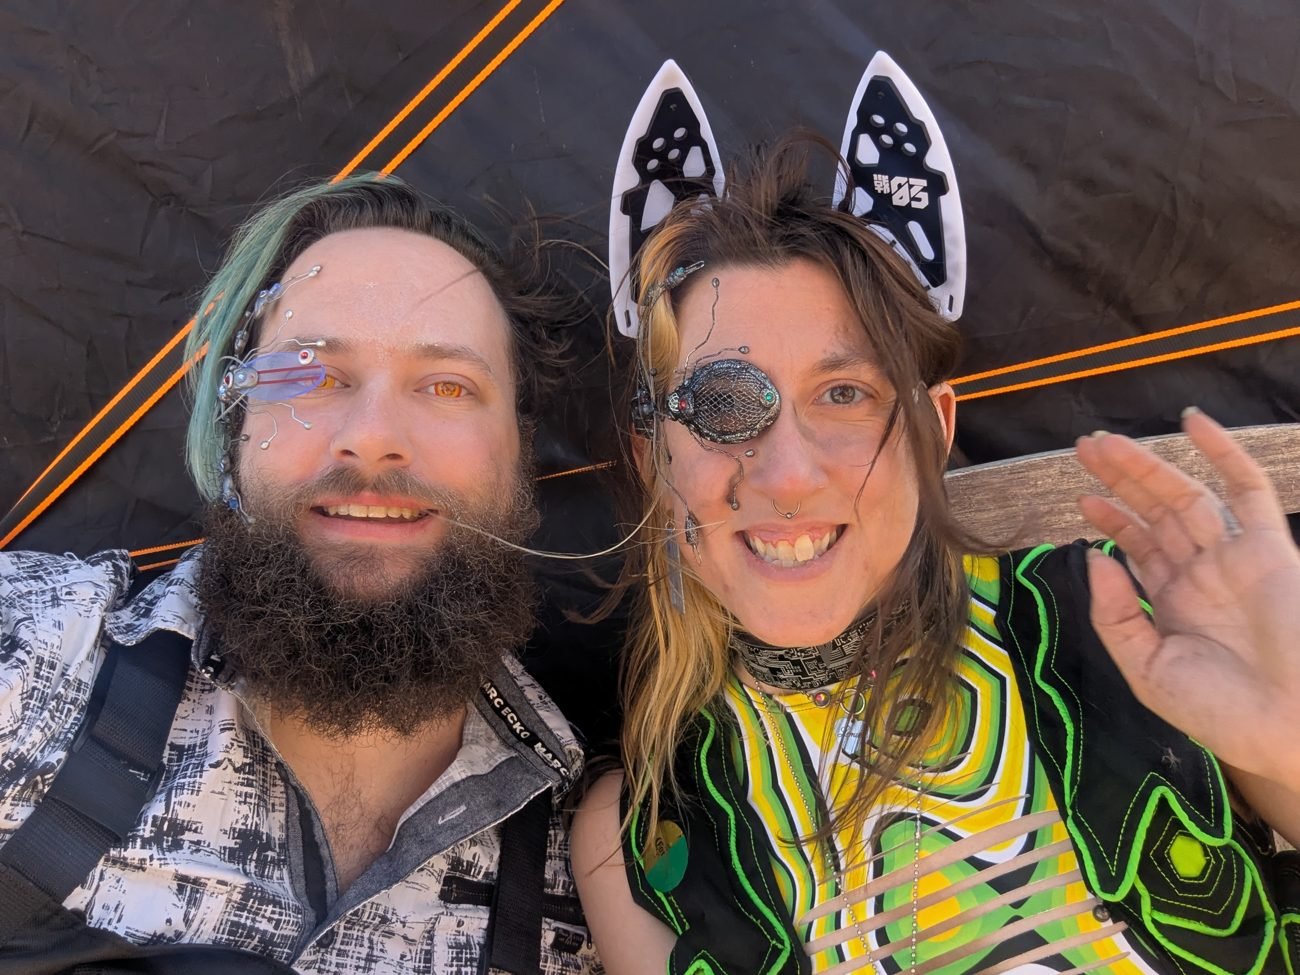
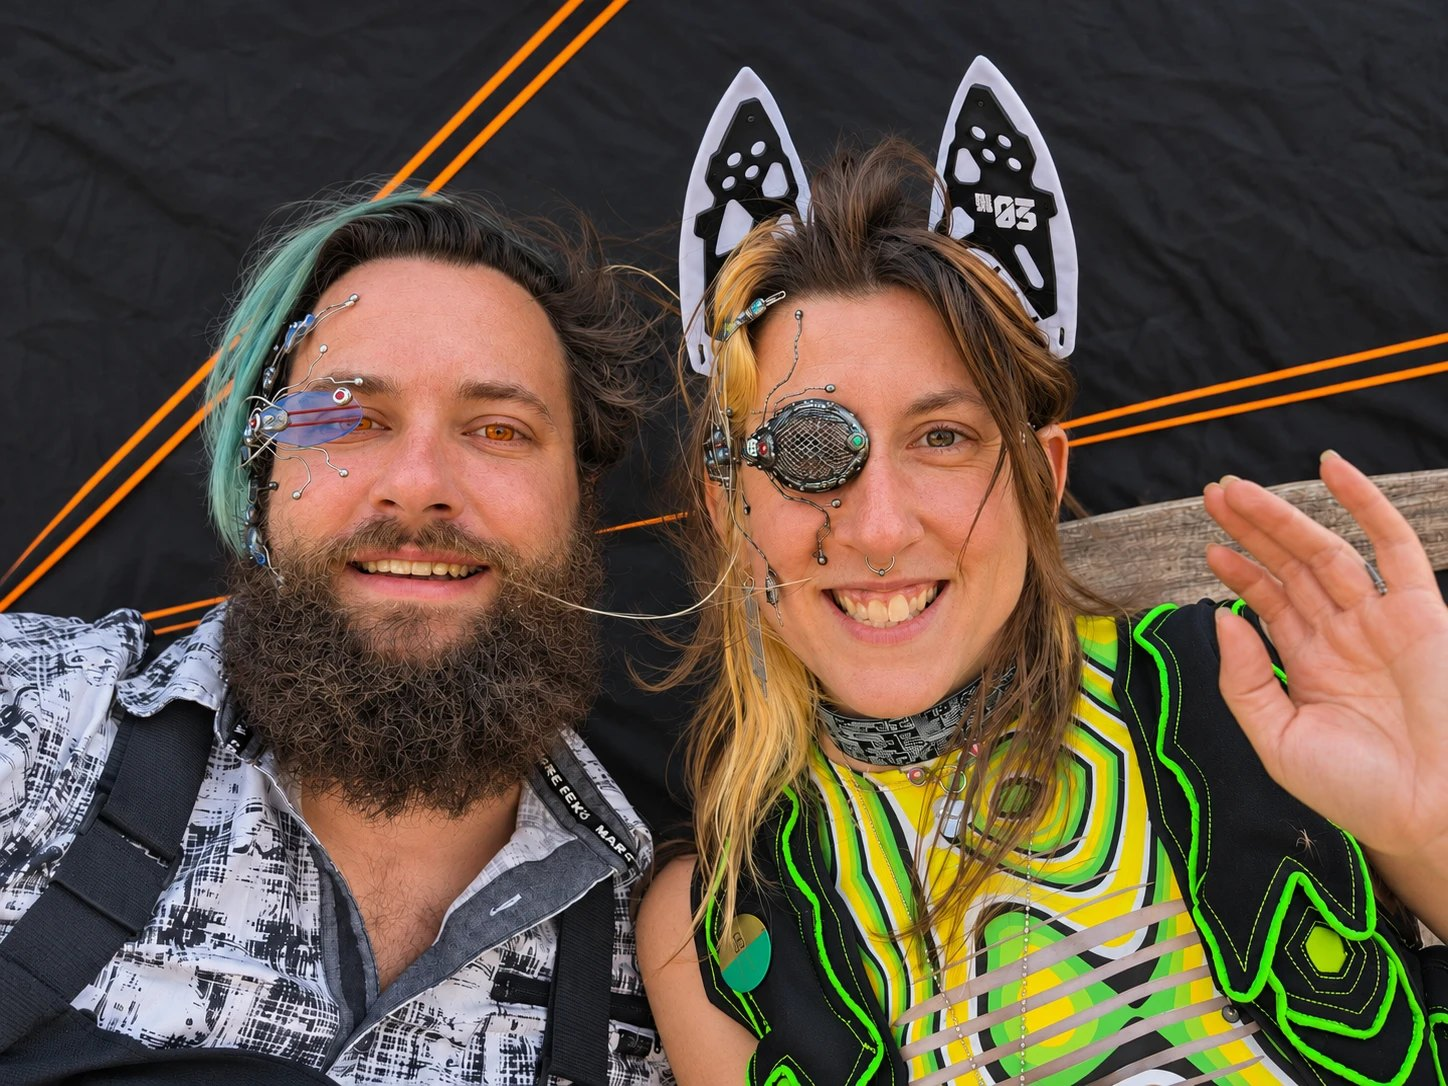
Use the new selfie on the night side
Claude-Session: https://claude.ai/code/session_01DgCLhtag71TBe2rjymrTWz

diff --git a/index.html b/index.html
@@ -153,7 +153,7 @@
         </div>
       </div>
       <figure class="neon-frame">
-        <img src="images/selfie.jpg" alt="Ariel, wearing white lemur ears and a wire-and-mesh cyberpunk eyepiece, grinning and waving next to her bearded partner" width="1300" height="975">
+        <img src="images/selfie.jpg" alt="Ariel, wearing white lemur ears and a wire-and-mesh cyberpunk eyepiece, grinning and waving next to her bearded partner" width="1448" height="1086">
         <figcaption>&gt; Lemur (right, with ears) at Neotropolis</figcaption>
       </figure>
     </div>
